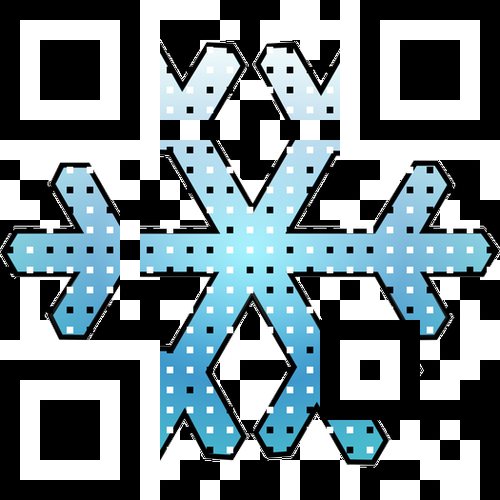
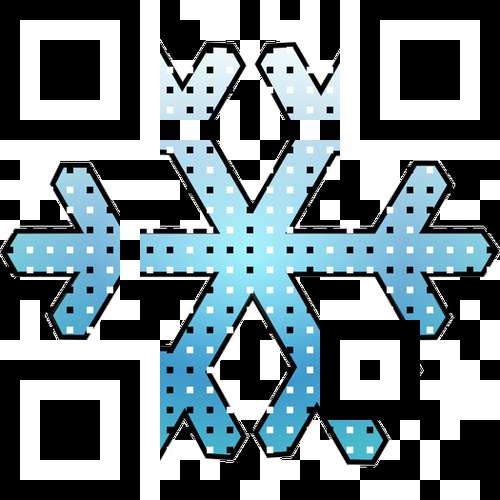
Mock Server
- Server benutzt jetzt Mock-Fragen, um Tester nicht zu spoilern
- QR Code wurde zu testzwecken geändert

diff --git a/server/server.js b/server/server.js
@@ -67,7 +67,8 @@ class Player {
 }
 
 // read the csv and fill moderator (fs is always async)
-fs.createReadStream("moderator.csv")
+// fs.createReadStream("moderator.csv")
+fs.createReadStream("mock.csv")
 	.pipe(csv({separator: ";"}))
 
 	// This will push the object row into the array

diff --git a/QR/QRCode_Winterquiz.py b/QR/QRCode_Winterquiz.py
@@ -8,7 +8,7 @@
 import segno
 
 # Create open url
-qrOpenURL = segno.make_qr("http://192.168.1.123/")
+qrOpenURL = segno.make_qr("http://141.64.203.44:3000/")
 
 # Save in an "artistic" way
 qrOpenURL.to_artistic(background="Snowflake.png", 
